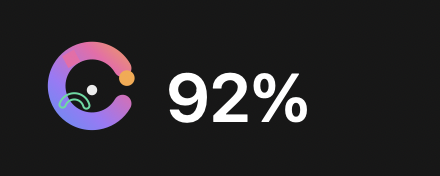
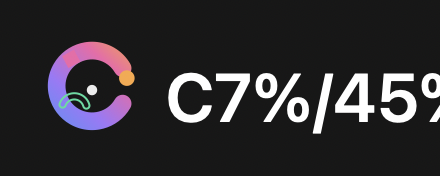
fix: 按官方文档改为两池模型——去掉 included 行，菜单栏显示 C7%/45%
依据官网文档核实（cursor.com/help/models-and-usage/usage-limits.md、
account-and-billing/pricing.md、docs/models-and-pricing.md）：
套餐只有两个用量池 —— Cursor Models（第一方 Grok/Composer，generous）
与 Other Models（第三方，Ultra 含 $400），不存在独立的 included usage 逻辑。

- 面板只保留 Cursor Models / Other Models 两条用量（百分比 + 各池美元）
- 删除 Included usage 行与 displayMessage 展示（该文案是 in-app 另一口径，非独立池）
- 菜单栏标题改为两池百分比：C7%/45%（C = Cursor Models 池）
- RESEARCH 引用官方文档链接与两池定义；README/DESIGN 同步
- 重新生成产品截图

Changed region(s): [[0.3841, 0.3977, 1.0, 0.767], [0.975, 0.5966, 1.0, 0.7102]]

diff --git a/Sources/PanelModel.swift b/Sources/PanelModel.swift
@@ -70,13 +70,10 @@ final class PanelModel: ObservableObject {
     var autoPercent: Double? { usage?.planUsage?.autoPercentUsed }
     var apiPercent: Double? { usage?.planUsage?.apiPercentUsed }
 
-    /// purchased included 额度消耗百分比（= includedSpend / limit，与官方 displayMessage 同口径，
-    /// 例："You've used 92% of your included usage"）。这是「套餐买断额度」的消耗，最贴近用户直觉。
-    var includedPercent: Double? {
-        guard let pu = usage?.planUsage,
-              let spent = pu.includedSpend ?? pu.totalSpend,
-              let limit = pu.limit, limit > 0 else { return nil }
-        return spent / limit * 100
+    /// 状态栏标题：两池百分比（官方语义只有两个用量池），如 "C7%/45%"（Cursor Models / Other Models）
+    var poolTitle: String? {
+        guard let auto = autoPercent, let api = apiPercent else { return nil }
+        return String(format: "C%.0f%%/%.0f%%", auto, api)
     }
 
     // MARK: - 拉取
@@ -143,10 +140,8 @@ final class PanelModel: ObservableObject {
         usage = u
         lastUpdated = Date()
         phase = .loaded
-        // 状态栏百分比：purchased included 消耗（与官方 displayMessage 同口径，如 92%）
-        if let included = includedPercent {
-            statusTitle = String(format: "%.0f%%", included)
-        }
+        // 状态栏标题：两池百分比（如 C7%/45%）
+        statusTitle = poolTitle ?? ""
 
         // 次要数据（planName / 聚合拆分）fire-and-forget：失败或超时绝不影响主流程
         if planName == nil {
@@ -167,11 +162,13 @@ final class PanelModel: ObservableObject {
     // MARK: - 两个池的美元拆分
 
     /// 模型归属（权威标准 = 服务端 `tier` 字段）：
-    /// - `tier == 2` → **Cursor Models 池**（auto 池：composer / vega / cursor-grok 等 Cursor 自家模型）
-    /// - `tier == 1` → **Other Models 池**（API 池：claude / gpt 等第三方模型）
-    /// 实测验证：tier2 花费和 ÷ autoPercentUsed ≈ 200000 分（$2000 池）、
-    /// tier1 花费和 ÷ apiPercentUsed ≈ 50000 分（$500 池），两池相加 == totalPercentUsed 分母 $2500，完全自洽。
-    /// 注：`autoBucketModels` 列表并不完整（实测不含 cursor-grok-4.6 系列，但其 tier=2），
+    /// - `tier == 2` → **Cursor Models 池**（第一方：Grok 4.6/4.5、Composer 等）
+    /// - `tier == 1` → **Other Models 池**（第三方：claude / gpt 等，按厂商价格计费）
+    /// 官方文档（cursor.com/help/models-and-usage/usage-limits）：套餐只有这两个用量池，
+    /// Ultra 含 $400 Other Models（API agent usage）+ generous Cursor Models 池。
+    /// 实测验证：tier2 花费和 ÷ autoPercentUsed ≈ $2000（Cursor Models 池）、
+    /// tier1 花费和 ÷ apiPercentUsed ≈ $500（$400 官方额度 + 模型厂商赠送 bonus）。
+    /// 注：`autoBucketModels` 清单并不完整（实测不含 cursor-grok-4.6 系列，但其 tier=2），
     /// 因此仅作为 tier 缺失时的兜底，名称前缀启发式为最后兜底。
     private func isCursorPoolModel(_ name: String, tier: Int?, auto: Set<String>) -> Bool {
         if let tier { return tier == 2 }

diff --git a/Sources/UsagePanel.swift b/Sources/UsagePanel.swift
@@ -96,12 +96,6 @@ struct UsagePanelView: View {
                 if let onDemand = usage.spendLimitUsage {
                     onDemandRow(onDemand)
                 }
-                if let msg = usage.displayMessage, !msg.isEmpty {
-                    Text(msg)
-                        .font(.caption)
-                        .foregroundColor(.secondary)
-                        .fixedSize(horizontal: false, vertical: true)
-                }
             } else {
                 Text("暂无数据，点击刷新")
                     .font(.caption)
@@ -113,6 +107,9 @@ struct UsagePanelView: View {
 
     // MARK: 用量条
 
+    /// 官方语义（cursor.com/help/models-and-usage/usage-limits）：
+    /// 套餐只有两个用量池 —— Cursor Models（第一方：Grok 4.6/4.5、Composer）与
+    /// Other Models（第三方，Ultra 含 $400）；没有独立的 "included usage" 逻辑。
     private func meters(_ usage: PeriodUsage) -> some View {
         let pools = model.poolSpendCents
         return VStack(alignment: .leading, spacing: 10) {
@@ -122,10 +119,6 @@ struct UsagePanelView: View {
             MeterRow(title: "Other Models",
                      percent: usage.planUsage?.apiPercentUsed ?? 0,
                      detail: poolDetail(cents: pools?.other, percent: usage.planUsage?.apiPercentUsed))
-            // Included 行用「买断额度」口径（includedSpend/limit），与官方 displayMessage 一致（如 92%）
-            MeterRow(title: "Included usage",
-                     percent: model.includedPercent ?? 0,
-                     detail: totalDetail(usage.planUsage))
             if !model.topModels.isEmpty {
                 topModelsSection
             }
@@ -163,16 +156,6 @@ struct UsagePanelView: View {
             }
         }
         .padding(.top, 4)
-    }
-
-    private func totalDetail(_ pu: PlanUsage?) -> String {
-        guard let pu else { return "—" }
-        var parts: [String] = []
-        // 与 includedPercent 同口径：已用取 includedSpend（bonus 免费额度另计），与官方 displayMessage 一致
-        if let t = pu.includedSpend ?? pu.totalSpend { parts.append("已用 $\(Self.cents(t))") }
-        if let l = pu.limit { parts.append("限额 $\(Self.cents(l))") }
-        if let r = pu.remaining { parts.append("剩余 $\(Self.cents(r))") }
-        return parts.joined(separator: " · ")
     }
 
     static func cents(_ v: Double) -> String {

diff --git a/Sources/SelfCheck.swift b/Sources/SelfCheck.swift
@@ -32,18 +32,14 @@ enum SelfCheck {
                     if let pu = usage.planUsage {
                         out += String(format: "[ok] Cursor Models 池用量 (autoPercentUsed): %.2f%%\n", pu.autoPercentUsed ?? -1)
                         out += String(format: "[ok] Other Models 池用量 (apiPercentUsed): %.2f%%\n", pu.apiPercentUsed ?? -1)
-                        let included = pu.limit.map { $0 > 0 ? (pu.includedSpend ?? pu.totalSpend ?? 0) / $0 * 100 : nil } ?? nil
-                        out += String(format: "[ok] Included usage 消耗 (includedSpend/limit): %.2f%%\n", included ?? -1)
-                        out += String(format: "[ok] 金额: 已用 $%.2f / 限额 $%.2f / 剩余 $%.2f\n",
-                                      (pu.includedSpend ?? pu.totalSpend ?? 0) / 100, (pu.limit ?? 0) / 100, (pu.remaining ?? 0) / 100)
-                        out += String(format: "[ok] 总池用量含 bonus (totalPercentUsed): %.2f%%\n", pu.totalPercentUsed ?? -1)
+                        out += String(format: "[ok] 状态栏标题: C%.0f%%/%.0f%%\n", pu.autoPercentUsed ?? 0, pu.apiPercentUsed ?? 0)
                     } else {
                         out += "[warn] 响应中没有 planUsage（账户形态可能与 Ultra 不同）\n"
                     }
                     if let s = usage.billingCycleStart, let e = usage.billingCycleEnd {
                         out += "[ok] 周期: \(msDate(s)) → \(msDate(e))\n"
                     }
-                    out += "[ok] displayMessage: \(usage.displayMessage ?? "(无)")"
+                    out += "[ok] 官方口径参考 displayMessage: \(usage.displayMessage ?? "(无)")"
                     return (out, false)
                 } catch {
                     return ("[FAIL] 请求失败: \(error.localizedDescription)", true)

diff --git a/RESEARCH.md b/RESEARCH.md
@@ -64,18 +64,23 @@ User-Agent: cursorusage-menubar/0.1   (可选)
 
 ### Cursor models vs Other models 的字段拆分（核心结论）
 
-接口在 `GetCurrentPeriodUsage` 里给出的拆分是**隐式百分比**：
+**官方文档（2026-08 核实）** [usage-limits](https://cursor.com/help/models-and-usage/usage-limits.md) / [pricing](https://cursor.com/help/account-and-billing/pricing.md) / [models-and-pricing](https://cursor.com/docs/models-and-pricing.md)：
+
+> "Each Cursor plan includes **two** monthly usage pools"
+> - **Cursor Models**: Cursor Grok 4.6 / Grok 4.5 / Composer 2.5（第一方，"generous" included usage，实测池 ≈ **$2000**）
+> - **Other Models**: Third-party models, charged at model provider prices（Ultra = **$400** of API agent usage）
+
+**套餐只有这两个用量池，没有独立的 "included usage" 逻辑**。面板与菜单栏都只展现这两块：
 
 | 面板要展示的池 | 字段 | 语义依据 |
 |---|---|---|
-| **Cursor Models**（Cursor 自家模型：composer / vega / cursor-grok 等） | `planUsage.autoPercentUsed` | 自动模式（Auto）路由到 Cursor 自家模型池；官方文档确认 “Cursor Models: Cursor Grok 4.6/4.5、Composer 2.5”；实测池额度 ≈ **$2000**（花费 ÷ 百分比整除） |
-| **Other Models**（第三方模型，按模型厂商价格计费） | `planUsage.apiPercentUsed` | 命名模型/API 模式走第三方池；官方文档 “Other Models: Third-party models, charged at model provider prices”；实测池额度 ≈ **$500** |
-| **Included usage（买断额度消耗）** | `planUsage.includedSpend / planUsage.limit` | 官方 `displayMessage` 口径（“You've used 92% of your included usage”）；`limit` 即套餐买断额度（Ultra = $400） |
-| **总池用量（含 bonus，参考）** | `planUsage.totalPercentUsed` | 两池花费合计 ÷ 总池（auto 池 + API 池 ≈ **$2500**，超出买断额度的部分为模型厂商赠送的 bonus 免费额度）；**不是**「$400 买断额度」的口径，勿与金额并排展示 |
+| **Cursor Models**（第一方：Grok 4.6/4.5、Composer） | `planUsage.autoPercentUsed` | 官方两池定义；实测池额度 ≈ **$2000**（tier2 花费 ÷ 百分比整除） |
+| **Other Models**（第三方，按厂商价格计费） | `planUsage.apiPercentUsed` | 官方两池定义；Ultra 含 **$400**（tier1 花费 ÷ 百分比 ≈ $500 = $400 官方额度 + 模型厂商赠送 bonus） |
+| 菜单栏标题 | `C{auto}%/{api}%`（如 `C7%/45%`） | 两池百分比即官方 Dashboard 的用量口径 |
 
 - 交叉验证 1（omarchy 生产 collector）：`autoPercentUsed → label "Cursor Models"`，`apiPercentUsed → label "Other Models"`。
-- 交叉验证 2（接口自述消息）：`autoModelSelectedDisplayMessage` 对应总池用量（15%，即 totalPercentUsed 口径），`namedModelSelectedDisplayMessage` 对应 “included API usage”（45%，即 apiPercentUsed 口径），`displayMessage` 对应买断额度（92%，includedSpend/limit 口径）。
-- 官方文档口径：Pro/Pro Plus/Ultra 都是 “x 美元 API agent usage + 第一方模型池”，两池语义一致。
+- 交叉验证 2（接口自述消息）：`namedModelSelectedDisplayMessage`（"…of your included API usage"，45%）对应 apiPercentUsed；`displayMessage`（"…of your included usage"，92%）是 in-app 提示的另一口径（includedSpend/limit），**不是独立用量池**，面板不展示。
+- `totalPercentUsed` 是两池合计 ÷ 总池（≈ $2500，含 bonus）的参考值，UI 不展示。
 
 ### 两个池的美元拆分：来自 `GetAggregatedUsageEvents`（重要补充）
 
@@ -106,7 +111,7 @@ POST https://api2.cursor.sh/aiserver.v1.DashboardService/GetAggregatedUsageEvent
 **一致性验证（本机实测）**：`aggregations[].totalCents` 之和 = $198.77 ≈ `planUsage.totalSpend` = $198.76（误差 $0.01，四舍五入）。池拆分结果：Cursor Models **$58.89** / Other Models **$139.87**（tier 分组结果一致）。
 
 **池额度反推（推断，非接口直给）**：`池花费 ÷ 池百分比` 得出
-`Cursor Models 池 ≈ $2000`（$58.89 ÷ 2.9445%）、`Other Models 池 ≈ $500`（$139.87 ÷ 27.974%），两个值都整除得很干净，且 `totalPercentUsed` 分母 = $2500 时三者一致（19876/250000 = 7.95%）。因此 `autoPercentUsed`/`apiPercentUsed` 的分母应是各自池额度而非 `planUsage.limit`（$400，那是 displayMessage “50%” 的口径）。
+`Cursor Models 池 ≈ $2000`（$58.89 ÷ 2.9445%）、`Other Models 池 ≈ $500`（$139.87 ÷ 27.974%），两个值都整除得很干净，且 `totalPercentUsed` 分母 = $2500 时三者一致（19876/250000 = 7.95%）。结合官方文档：**Other Models 官方额度 = $400**（Ultra pricing），实测分母 $500 = $400 + 模型厂商赠送的 bonus；Cursor Models 官方只写 "generous"，实测 ≈ $2000。这些池额度不用于 UI 展示。
 
 ### 金额口径小结
 
@@ -114,9 +119,8 @@ POST https://api2.cursor.sh/aiserver.v1.DashboardService/GetAggregatedUsageEvent
 |---|---|---|
 | 每池美元花费 | `GetAggregatedUsageEvents.aggregations[].totalCents` 按 `tier` 归属求和 | 分 |
 | 每池百分比 | `planUsage.autoPercentUsed` / `apiPercentUsed` | % |
-| Included 美元（已用/限额/剩余） | `planUsage.includedSpend/limit/remaining` | 分 |
-| Included 百分比（面板主展示） | `includedSpend / limit × 100`（官方 displayMessage 口径，如 92%） | % |
-| 总池用量（含 bonus，仅参考） | `planUsage.totalPercentUsed`（分母 ≈ $2500） | % |
+| 菜单栏标题 | `C{auto}%/{api}%` | — |
+| 参考（UI 不展示） | `planUsage.totalPercentUsed`（两池合计 ÷ 含 bonus 总池）、`includedSpend/limit`（官方 in-app 提示口径） | % |
 
 ### 其他探测过的端点（本机实测）
 

diff --git a/README.md b/README.md
@@ -35,9 +35,8 @@ Click the menu bar icon to see your current billing-cycle usage at a glance — 
 
 | English | 中文 |
 |---|---|
-| 🟦 **Menu bar resident** — abstract-art letter **C** icon + live **included usage %** (official `displayMessage` caliber), no Dock icon (`LSUIElement`) | 🟦 **菜单栏常驻**——抽象派字母 **C** 图标 + 实时买断额度消耗百分比（官方口径），无 Dock 图标 |
-| ⚖ **Two pools side by side**: Cursor Models (`autoPercentUsed`, auto pool ≈ $2000) and Other Models (`apiPercentUsed`, API pool ≈ $500), each with **exact dollar spend** derived from `GetAggregatedUsageEvents` by server-side **`tier`** (verified: sum == `planUsage.totalSpend`) | ⚖ **双池并列展示**：Cursor Models（`autoPercentUsed`，auto 池 ≈ $2000）与 Other Models（`apiPercentUsed`，API 池 ≈ $500），各池**精确美元花费**由 `GetAggregatedUsageEvents` 按服务端 `tier` 归属求和（实测合计 == `totalSpend`） |
-| 💰 **Included usage** — used / limit / remaining in USD + % in the **same caliber** (`includedSpend / limit`, matching Cursor's official "You've used 92%…" message) | 💰 **Included usage**——已用 / 限额 / 剩余美元 + **同口径百分比**（`includedSpend / limit`，与 Cursor 官方 92% 提示一致） |
+| 🟦 **Menu bar resident** — abstract-art letter **C** icon + live **two-pool %** (`C7%/45%` = Cursor Models / Other Models), no Dock icon (`LSUIElement`) | 🟦 **菜单栏常驻**——抽象派字母 **C** 图标 + 实时**双池百分比**（`C7%/45%` = Cursor Models / Other Models），无 Dock 图标 |
+| ⚖ **Two pools only** (official semantics: no separate "included" concept): Cursor Models (`autoPercentUsed`, first-party Grok/Composer pool) and Other Models (`apiPercentUsed`, third-party pool, Ultra incl. $400), each with **exact dollar spend** derived from `GetAggregatedUsageEvents` by server-side **`tier`** (verified: sum == `planUsage.totalSpend`) | ⚖ **只展示两个用量池**（官方语义，无独立 included 概念）：Cursor Models（`autoPercentUsed`，第一方 Grok/Composer 池）与 Other Models（`apiPercentUsed`，第三方池，Ultra 含 $400），各池**精确美元花费**由 `GetAggregatedUsageEvents` 按服务端 `tier` 归属求和（实测合计 == `totalSpend`） |
 | 🏆 **Top models by spend** (top 3) | 🏆 **Top 模型**（按花费前 3） |
 | 📅 **Billing cycle** start → end, "resets in N days" | 📅 **计费周期**起止与“N 天后重置” |
 | 🔄 **Auto refresh** — on open, every 60 s while open, every 5 min in background | 🔄 **自动刷新**——打开即拉取、打开期间每 60 s、后台每 5 min |
@@ -98,11 +97,10 @@ Body: {}
 
 | Pool · 池 | Percent field · 百分比字段 | Dollar source · 美元来源 |
 |---|---|---|
-| Cursor Models（auto 池，池额度 ≈ $2000） | `planUsage.autoPercentUsed` | `GetAggregatedUsageEvents` sum of `tier == 2` models |
-| Other Models（API 池，池额度 ≈ $500） | `planUsage.apiPercentUsed` | …`tier == 1` models (claude-*/gpt-*) |
-| Included usage（买断额度，主展示） | `planUsage.includedSpend / limit`（官方 `displayMessage` 口径，如 92%） | `planUsage.includedSpend / limit / remaining` (cents) |
+| **Cursor Models**（第一方：Grok 4.6/4.5、Composer，官方 "generous" 池） | `planUsage.autoPercentUsed` | `GetAggregatedUsageEvents` sum of `tier == 2` models |
+| **Other Models**（第三方，按厂商价格计费，Ultra 含 $400） | `planUsage.apiPercentUsed` | …`tier == 1` models (claude-*/gpt-*) |
 
-> 💡 `totalPercentUsed` 是「含 bonus 总池（≈ $2500）」口径的百分比（如 15%），与「$400 买断额度」金额不同分母，故不作为 Included 行的主百分比展示。
+> 💡 依据官方文档 [usage-limits](https://cursor.com/help/models-and-usage/usage-limits.md)：套餐**只有这两个用量池**，没有独立的 "included usage" 逻辑；菜单栏标题 `C7%/45%` 即两池百分比。
 
 Full research (protocol, fields, token sources, uncertainties) → [RESEARCH.md](RESEARCH.md) · 完整调研见 [RESEARCH.md](RESEARCH.md)
 Design & architecture → [DESIGN.md](DESIGN.md) · 实现方案见 [DESIGN.md](DESIGN.md)

diff --git a/DESIGN.md b/DESIGN.md
@@ -52,10 +52,11 @@ cursor-usage/
                / Connect-Protocol-Version: 1
       body: {}
   → 解析 PeriodUsage（Codable）
-  → 面板渲染：Cursor Models = autoPercentUsed（auto 池 ≈ $2000），Other Models = apiPercentUsed（API 池 ≈ $500），
-    Included usage = includedSpend / limit（买断额度口径，与官方 displayMessage 的 92% 一致）；
+  → 面板渲染（官方语义：只有两个用量池，见 cursor.com/help/models-and-usage/usage-limits）：
+    Cursor Models = autoPercentUsed（第一方 Grok/Composer 池），
+    Other Models = apiPercentUsed（第三方池，Ultra 含 $400）；
     池美元拆分 = GetAggregatedUsageEvents 按服务端 tier 归属（tier=2 → Cursor，tier=1 → Other）
-  → 状态栏标题同步显示买断额度消耗百分比（如 “92%”）
+  → 状态栏标题同步显示两池百分比（如 “C7%/45%”）
 ```
 
 自动刷新：面板打开期间每 60s 刷新一次；后台每 5min 刷新一次（更新状态栏百分比）。错误时面板显示错误 + 引导去设置；状态栏回到纯图标。
@@ -69,10 +70,9 @@ cursor-usage/
   - 定位上移 8pt（窗口顶与菜单栏底齐平，不压菜单栏，避免吞掉相邻状态栏项点击）：玻璃顶约 10pt 悬于菜单栏下方。
   - **回退**：macOS 12–25 保持传统实心圆角卡片（`windowBackgroundColor` + 12pt 圆角）；`--screenshot` 模式因 ImageRenderer 无法合成 `glassEffect` 的 Metal 图层，改用拟真玻璃底（`.ultraThinMaterial` + 顶部高光 + 双层描边）。
 - **头部**：图标 + “Cursor 用量” + 套餐/邮箱（GetPlanInfo + 本地 cachedEmail）
-- **用量条 ×3**：
+- **用量条 ×2（官方只有两个用量池，没有 included usage 逻辑）**：
   - `Cursor Models` — autoPercentUsed（绿色→橙→红按阈值变色）；美元 = 聚合端点 `tier == 2` 求和
   - `Other Models` — apiPercentUsed；美元 = `tier == 1` 求和
-  - `Included usage` — **includedSpend / limit 百分比（官方 displayMessage 口径）** + 金额 `已用 $X / 限额 $Y / 剩余 $Z`（美分 ÷ 100）；`totalPercentUsed`（含 bonus 总池口径）不并排展示，仅 SelfCheck 输出参考
   - 用量条为玻璃质感：半透明轨道（primary 0.10 + 细描边）+ 渐变填充 + 顶部高光 + 白色细描边
 - **周期**：`2026-08-16 → 2026-09-19 · 23 天后重置`
 - **按量付费**（有值时）：pooled / individual used·limit
